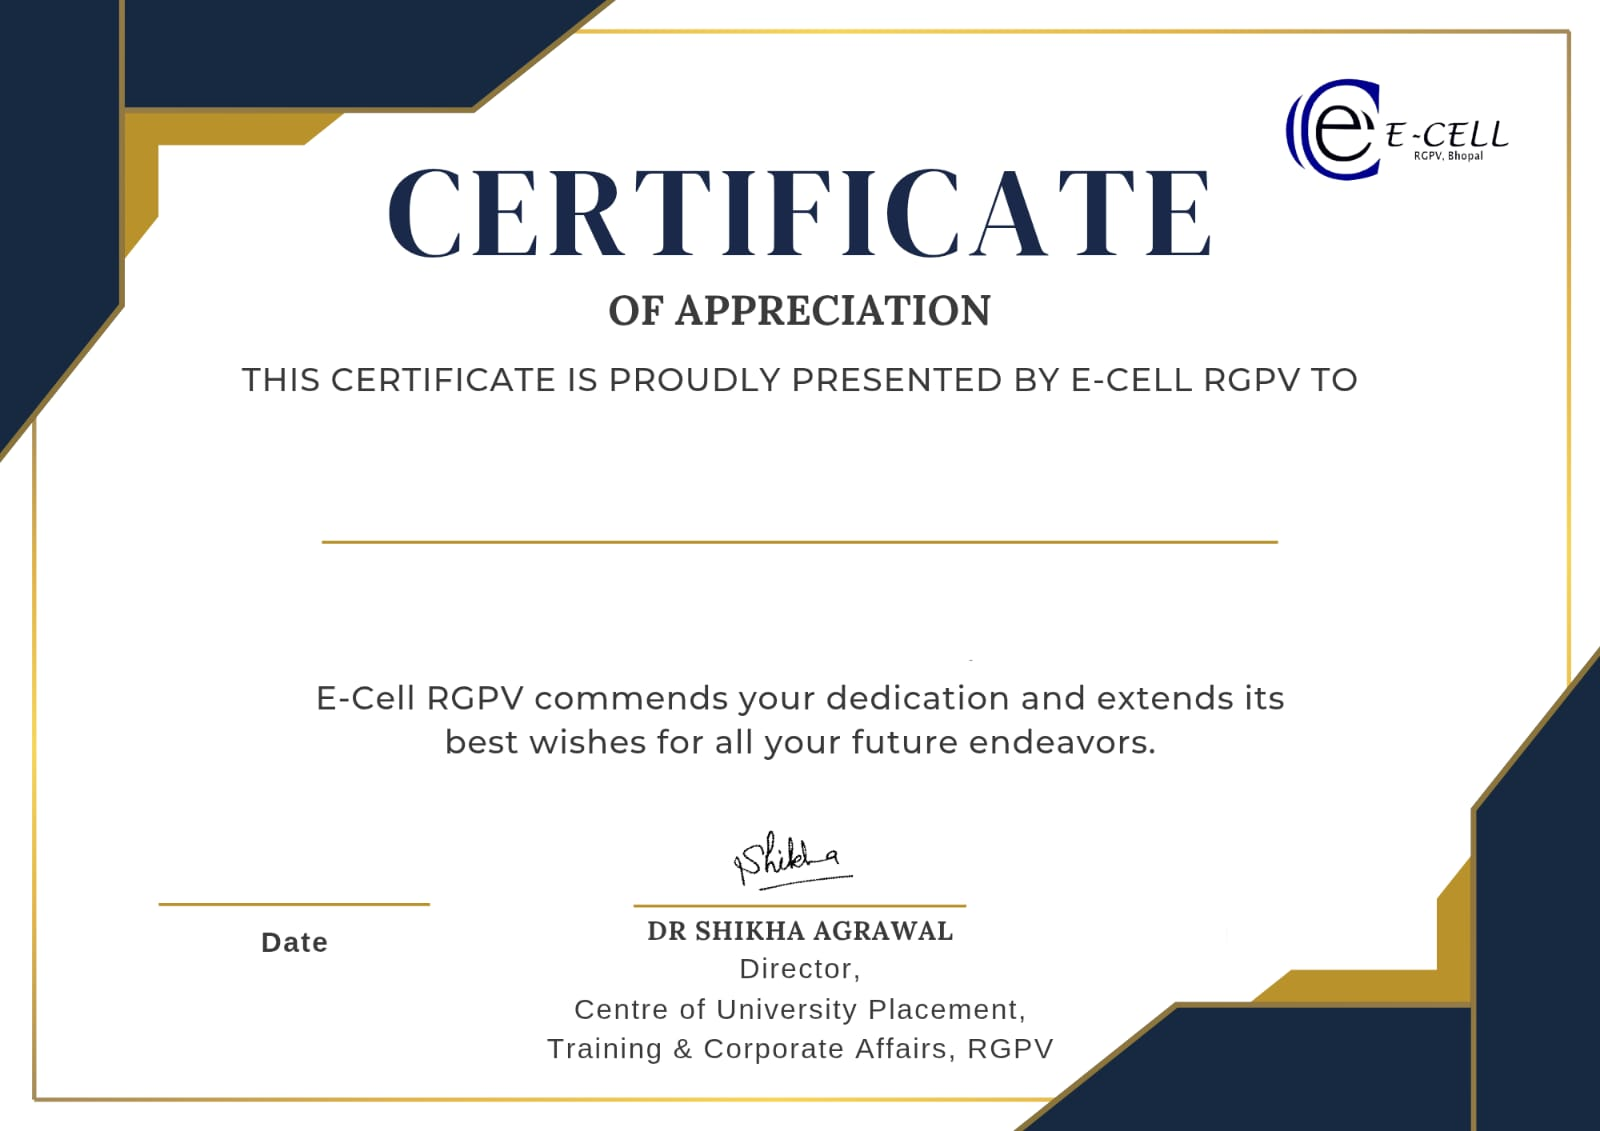
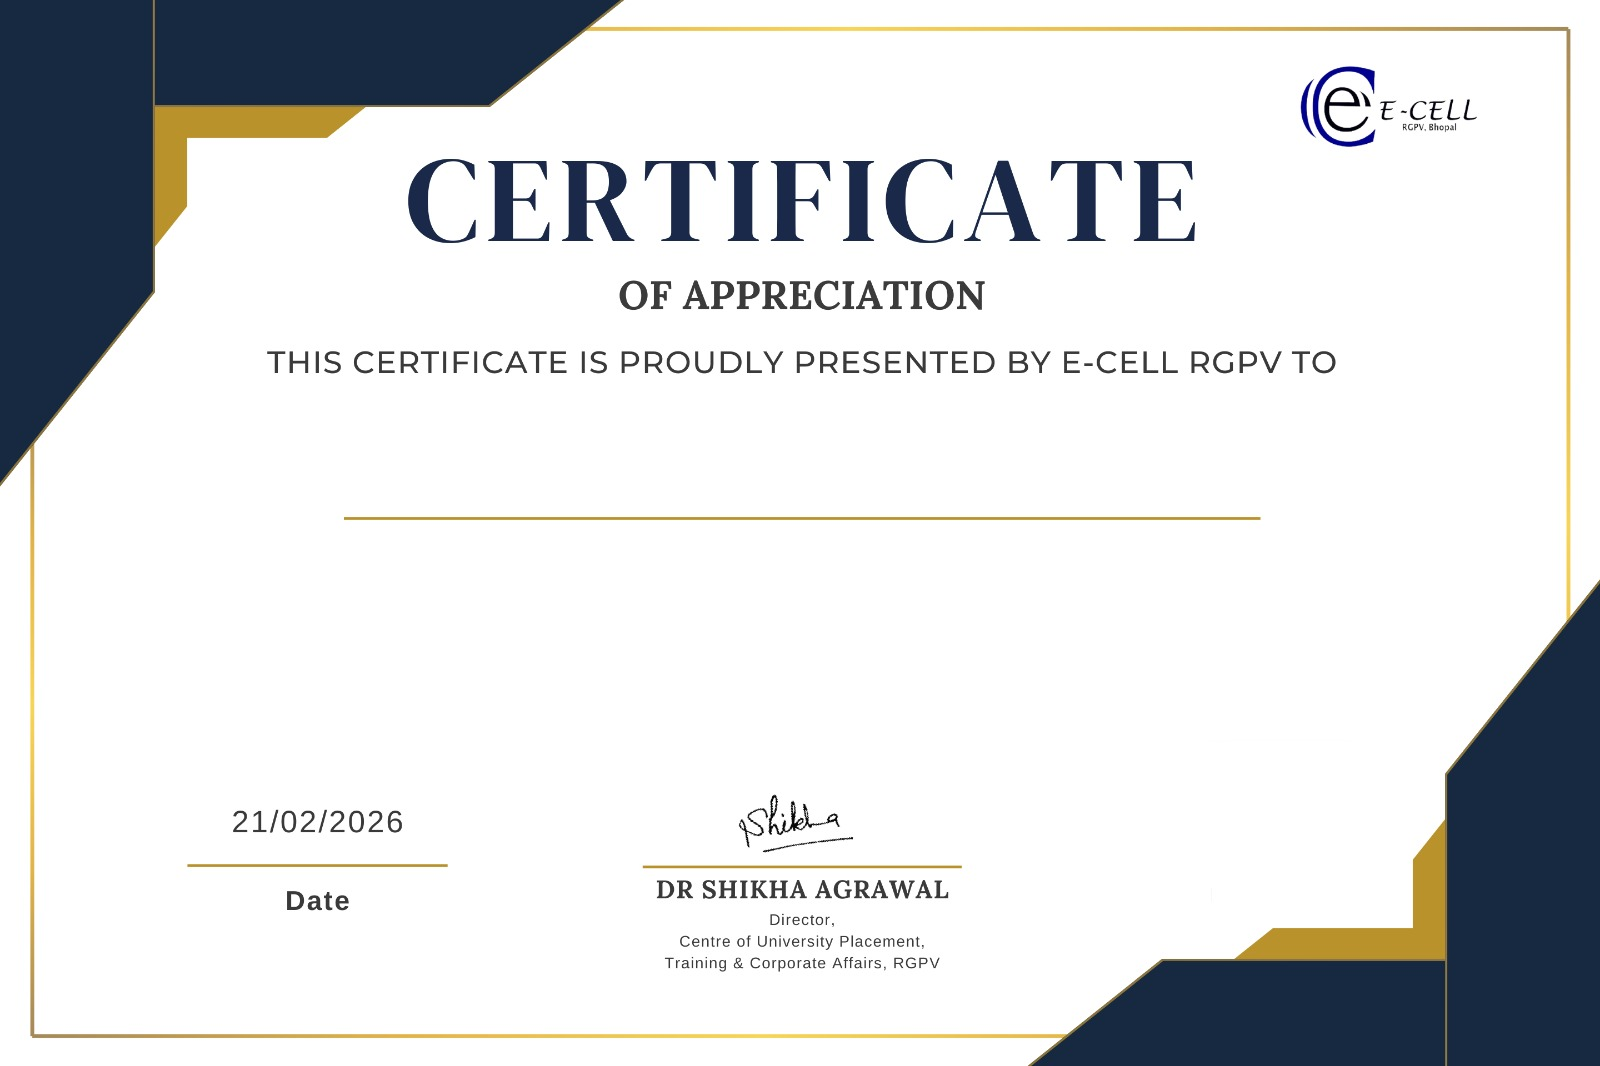
Updated the templates

diff --git a/public/templates/certificate-groomings.html b/public/templates/certificate-groomings.html
@@ -27,7 +27,7 @@
             width: 1123px;
             height: 794px;
             position: relative;
-            background-image: url('https://e-cell-certificate-and-verification.vercel.app/assets/groomings_certifiicate_image.jpeg');
+            background-image: url('http://localhost:3000/assets/groomings_certifiicate_image.jpeg');
             background-size: contain;
             background-position: center;
             background-repeat: no-repeat;
@@ -42,8 +42,8 @@
 
         .participant-name {
             position: absolute;
-            top: 300px;
-            left: 50px;
+            top: 320px;
+            left: 0;
             width: 100%;
             text-align: center;
             text-transform: capitalize;
@@ -57,22 +57,21 @@
         .department-name {
             position: absolute;
             top: 410px;
-            left: 15px;
-            width: 100%;
+            left: 50%;
+            transform: translateX(-50%);
+            width: 790px;
             text-align: center;
-            padding: 0 50px;
-
             font-family: 'Montserrat', sans-serif;
             color: #3b3a3a;
-            font-size: 23px;
+            font-size: 22px;
             font-weight: 500;
             line-height: 1.4;
         }
 
         .qr-section {
             position: absolute;
-            bottom: 125px;
-            right: 120px;
+            bottom: 130px;
+            right: 150px;
             text-align: center;
         }
 
@@ -88,17 +87,6 @@
             margin-top: 8px;
             font-weight: 600;
         }
-
-        .issue-date-section {
-            position: absolute;
-            bottom: 175px;
-            left: 190px;
-
-            font-family: 'Arimo', sans-serif;
-            font-size: 18px;
-            color: #555;
-            font-weight: 400;
-        }
     </style>
 </head>
 
@@ -108,10 +96,6 @@
     <div id="raw-event-name" style="display: none;">{{eventName}}</div>
 
     <div id="display-department" class="department-name"></div>
-
-    <div class="issue-date-section" id="display-date">
-        {{eventEndDate}}
-    </div>
 
     <div class="qr-section">
         <img src="{{qrCodeDataUrl}}" alt="QR Code" class="qr-code">
@@ -125,21 +109,7 @@
         if (rawNameElement && displayElement) {
             let rawText = rawNameElement.innerText.trim();
             let cleanText = rawText.replace(/\s*Groomings(?:\s+\d{4})?$/i, '').toUpperCase();
-            displayElement.innerHTML = `for successfully completing the Grooming Sessions <br> in the <span style="font-weight: 700;">${cleanText}</span> Department.`;
-        }
-
-        const dateElement = document.getElementById('display-date');
-        if (dateElement) {
-            let rawDateStr = dateElement.innerText.trim();
-            let parsedDate = new Date(rawDateStr);
-
-            if (!isNaN(parsedDate)) {
-                let day = parsedDate.getDate();
-                let month = parsedDate.getMonth() + 1;
-                let year = parsedDate.getFullYear();
-
-                dateElement.innerText = `${day}/${month}/${year}`;
-            }
+            displayElement.innerHTML = `for successfully completing the Grooming Sessions in the <span style="font-weight: 700;">${cleanText}</span>. E-Cell RGPV commends your dedication and extends its best wishes for all your future endeavors.`;
         }
     </script>
 </body>

diff --git a/public/templates/certificate-groomings-test.html b/public/templates/certificate-groomings-test.html
@@ -42,8 +42,8 @@
 
         .participant-name {
             position: absolute;
-            top: 300px;
-            left: 50px;
+            top: 320px;
+            left: 0;
             width: 100%;
             text-align: center;
             text-transform: capitalize;
@@ -56,21 +56,21 @@
         .department-name {
             position: absolute;
             top: 410px;
-            left: 15px;
-            width: 100%;
+            left: 50%;
+            transform: translateX(-50%);
+            width: 790px;
             text-align: center;
-            padding: 0 50px;
             font-family: 'Montserrat', sans-serif;
             color: #3b3a3a;
-            font-size: 23px;
+            font-size: 22px;
             font-weight: 500;
             line-height: 1.4;
         }
 
         .qr-section {
             position: absolute;
-            bottom: 125px;
-            right: 120px;
+            bottom: 130px;
+            right: 150px;
             text-align: center;
         }
 
@@ -86,16 +86,6 @@
             margin-top: 8px;
             font-weight: 600;
         }
-
-        .issue-date-section {
-            position: absolute;
-            bottom: 175px;
-            left: 190px;
-            font-family: 'Arimo', sans-serif;
-            font-size: 18px;
-            color: #555;
-            font-weight: 400;
-        }
     </style>
 </head>
 
@@ -103,9 +93,6 @@
     <div class="participant-name">John Doe</div>
     <div id="raw-event-name" style="display: none;">Public Relations Groomings</div>
     <div id="display-department" class="department-name"></div>
-    <div class="issue-date-section">
-        February 15, 2026
-    </div>
     <div class="qr-section">
         <img src="../assets/test_qr.jpeg" alt="QR Code" class="qr-code">
         <div class="cert-number">CERT-123456789</div>
@@ -118,7 +105,7 @@
         if (rawNameElement && displayElement) {
             let rawText = rawNameElement.innerText.trim();
             let cleanText = rawText.replace(/\s*Groomings(?:\s+\d{4})?$/i, '').toUpperCase();
-            displayElement.innerHTML = `for successfully completing the Grooming Sessions <br> in the <span style="font-weight: 700;">${cleanText}</span> Department.`;
+            displayElement.innerHTML = `for successfully completing the Grooming Sessions in the <span style="font-weight: 700;">${cleanText}</span>. E-Cell RGPV commends your dedication and extends its best wishes for all your future endeavors.`;
         }
     </script>
 </body>

diff --git a/app/admin/events/[eventId]/certificates/page.tsx b/app/admin/events/[eventId]/certificates/page.tsx
@@ -382,7 +382,8 @@ export default function EventCertificatesPage({ params }: PageProps) {
             }
             const blob = await res.blob();
             const ext = format === 'csv' ? 'csv' : 'xlsx';
-            const filename = `certificates-export-${Date.now()}.${ext}`;
+            const safeEventName = event?.title ? event.title.replace(/[^a-z0-9]/gi, '_').toLowerCase() : 'event';
+            const filename = `${safeEventName}-certificates.${ext}`;
             const url = URL.createObjectURL(blob);
             const a = document.createElement('a');
             a.href = url;
